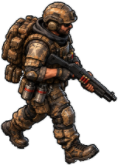
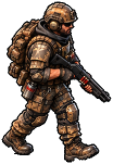
Add armory rotation views and walk all survivors
The Box Truck Armory is painted from three sides, cut from a rotation
sheet by process_art, so R cycles four real turns; buildings painted
once still mirror. Every group now wears the soldier walk sheet, with
back-diagonal views and a four-step side walk from a 16-pose sheet
(process_units --sheet soldier:walk16).

diff --git a/README.md b/README.md
@@ -25,8 +25,9 @@ or drag the project folder onto `love.exe`.
 - **Build your own base**: a run starts with only the headquarters inside the walls and scrap
   for one building, so the first choice is the player's. Each group's panel lists its three
   foundations from the design bible (40 scrap each); pick one and place it on the grid like a
-  StarCraft building, its tiles green where it fits and red where it doesn't. R turns it
-  (the painting is mirrored), Shift-click places another, right-click cancels. Nothing is built
+  StarCraft building, its tiles green where it fits and red where it doesn't. R turns it a
+  quarter at a time: the Box Truck Armory, painted from several sides, shows the matching
+  view; buildings painted once are mirrored. Shift-click places another, right-click cancels. Nothing is built
   at night. A group without a building waits at the HQ and does nothing; Leadership needs none.
   Without an armory, gear is handed out at the HQ.
 - **Ten specialization groups**, one survivor in each at the start, managed from the
@@ -111,8 +112,17 @@ A group can instead wear a walk sheet: 4 columns (front, side, three-quarter fro
 rows (left foot forward, right foot forward), each figure facing screen-right on a plain
 background, with an optional label under each figure. `love . --process-units --sheet soldier
 "<sheet PNG>"` cuts it into `soldier_<view><1|2>` frames at one shared scale, and
-`Units.WALK_SET` in `src/units.lua` assigns it to a group (Combat wears `soldier`). Survivors
-then show the view matching their heading and alternate the two stride frames as they walk.
+`Units.WALK_SET` in `src/units.lua` assigns it to a group (every group wears `soldier` for
+now). The 16-pose sheet adds a four-step side walk and back-diagonal views:
+`--sheet soldier:walk16 "<sheet PNG>"` (the layouts are in `LAYOUTS` in
+`tools/process_units.lua`). Survivors show the view matching their heading (front,
+three-quarter, side, back-diagonal, back; mirrored for the left) and step through its frames as
+they walk.
+
+A building painted from several sides comes as a rotation sheet: name it in `ROTATION_SHEETS`
+in `tools/process_art.lua` with the rectangle of each view, which become `<id>_r0`, `_r1`, ...,
+then list them as the building's `views` in `src/structures.lua` (one per quarter turn; a
+missing turn can reuse another view mirrored).
 
 To add or update a painting:
 
